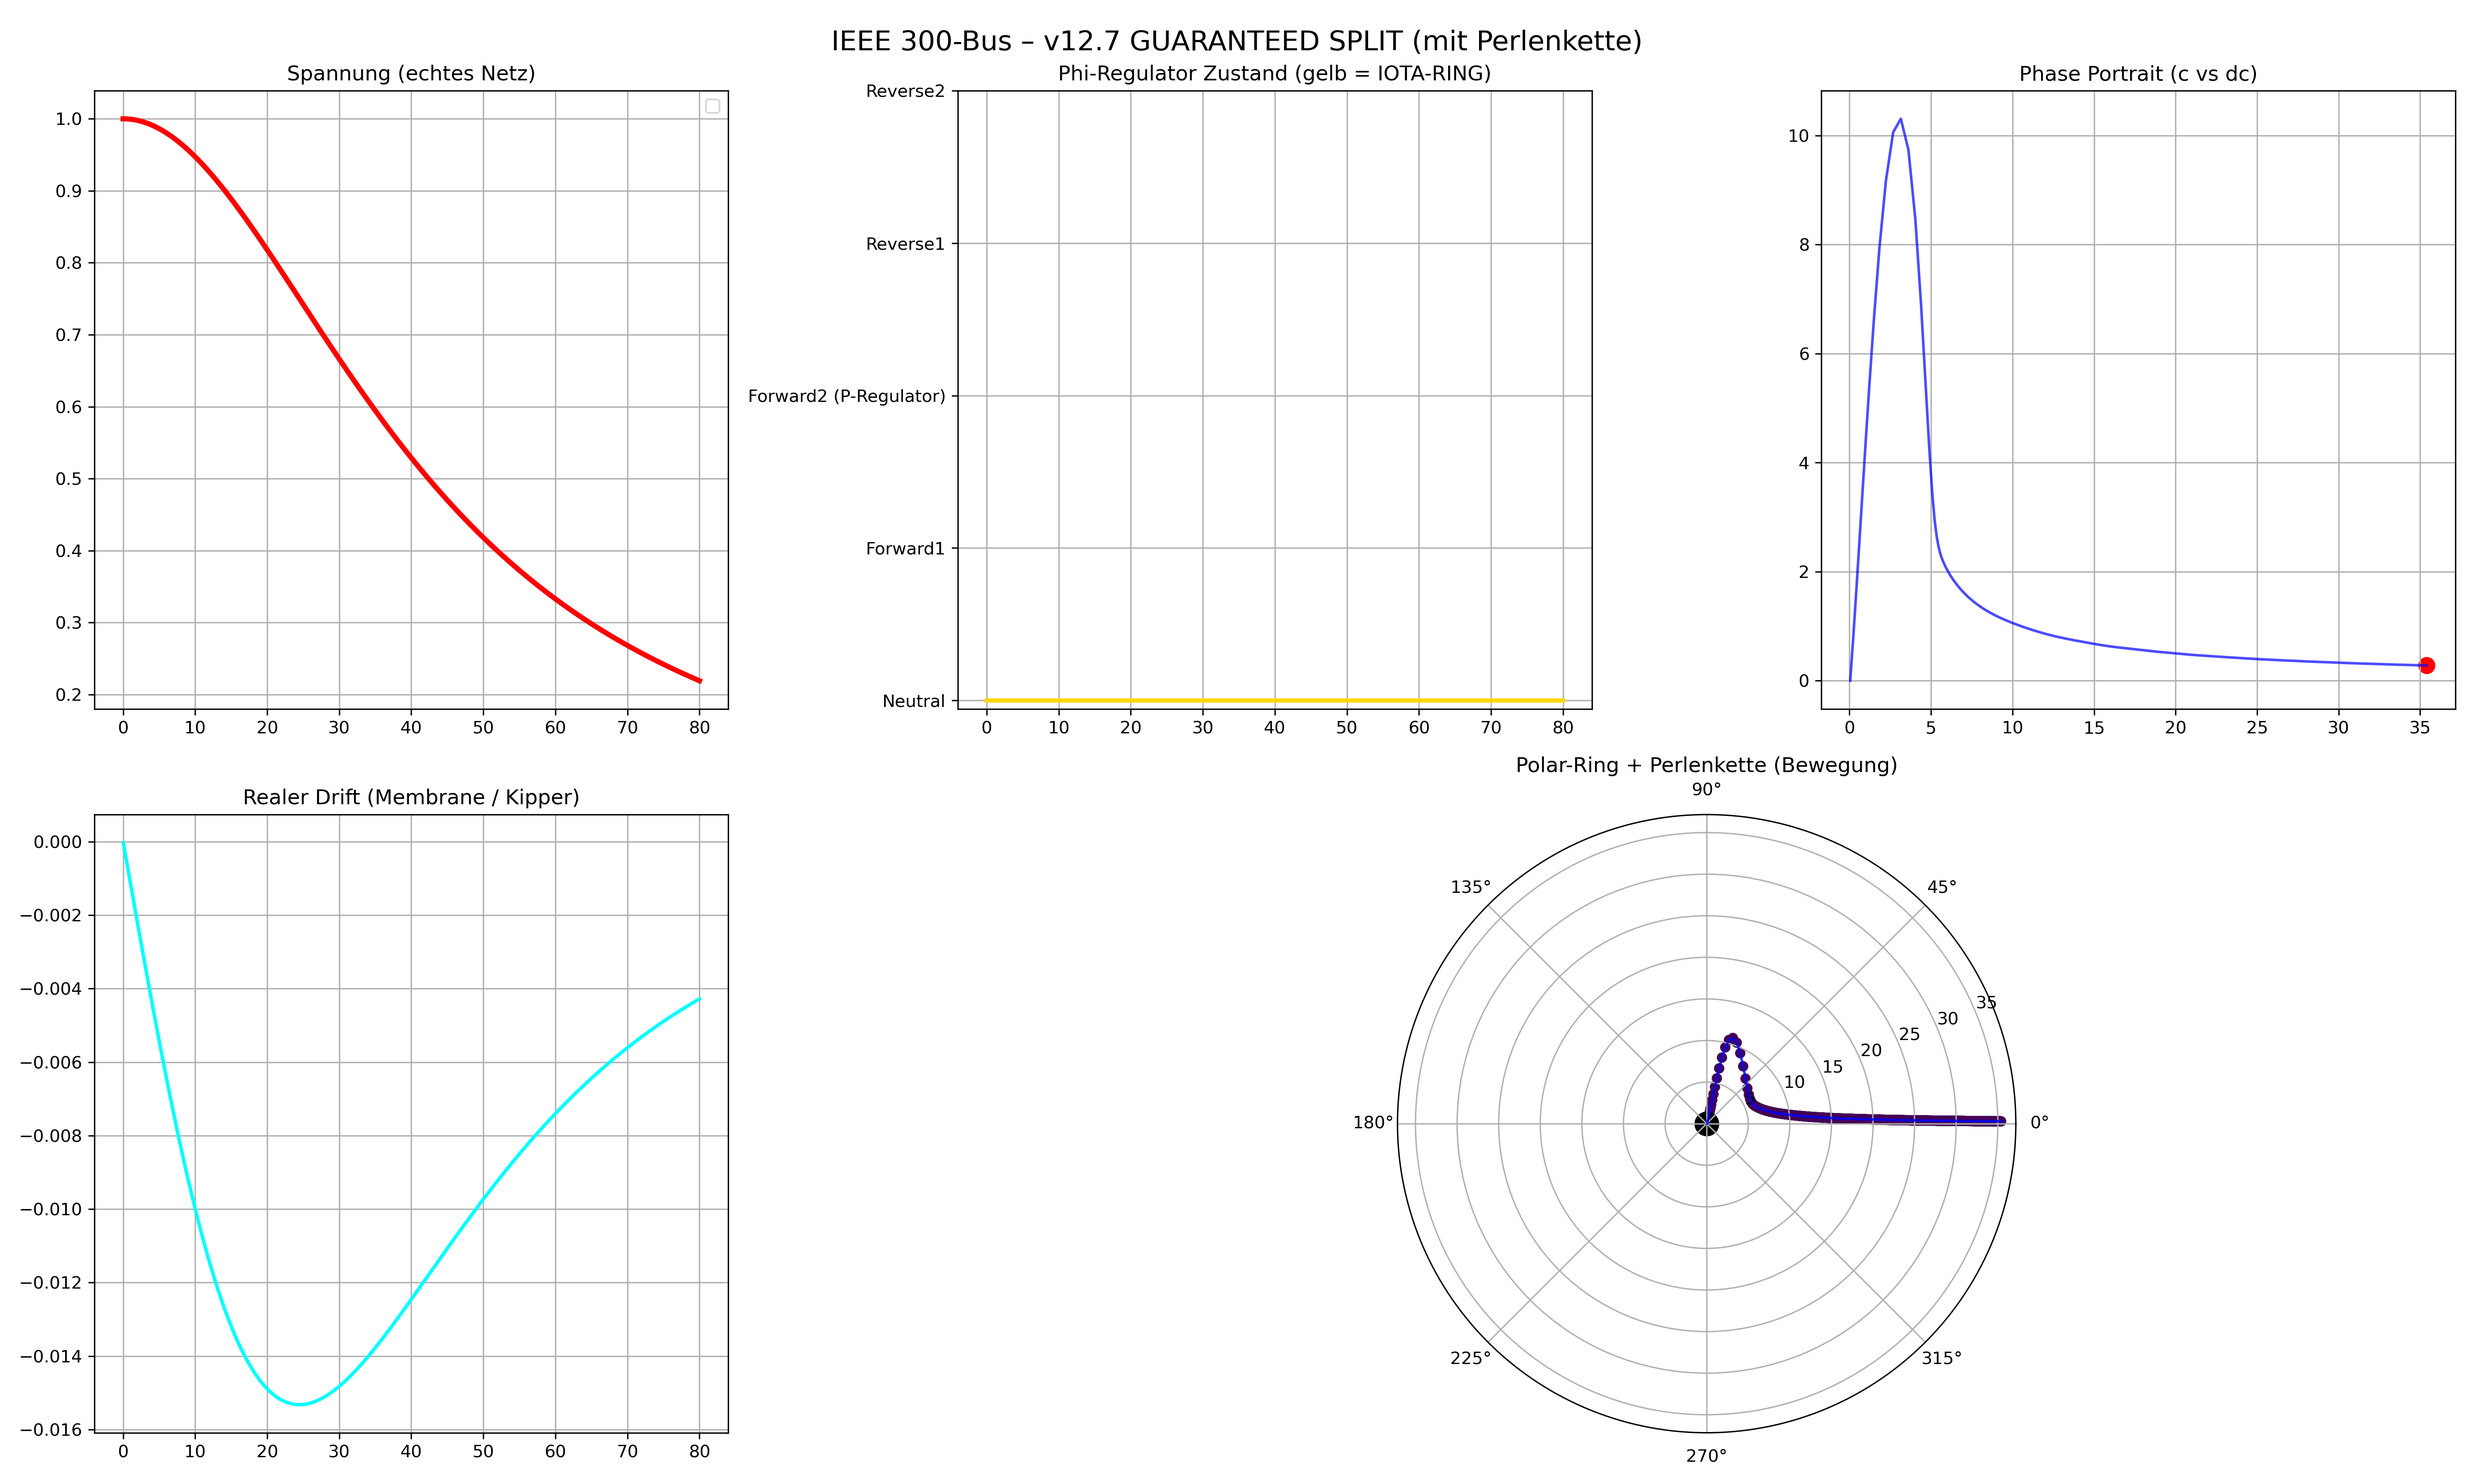
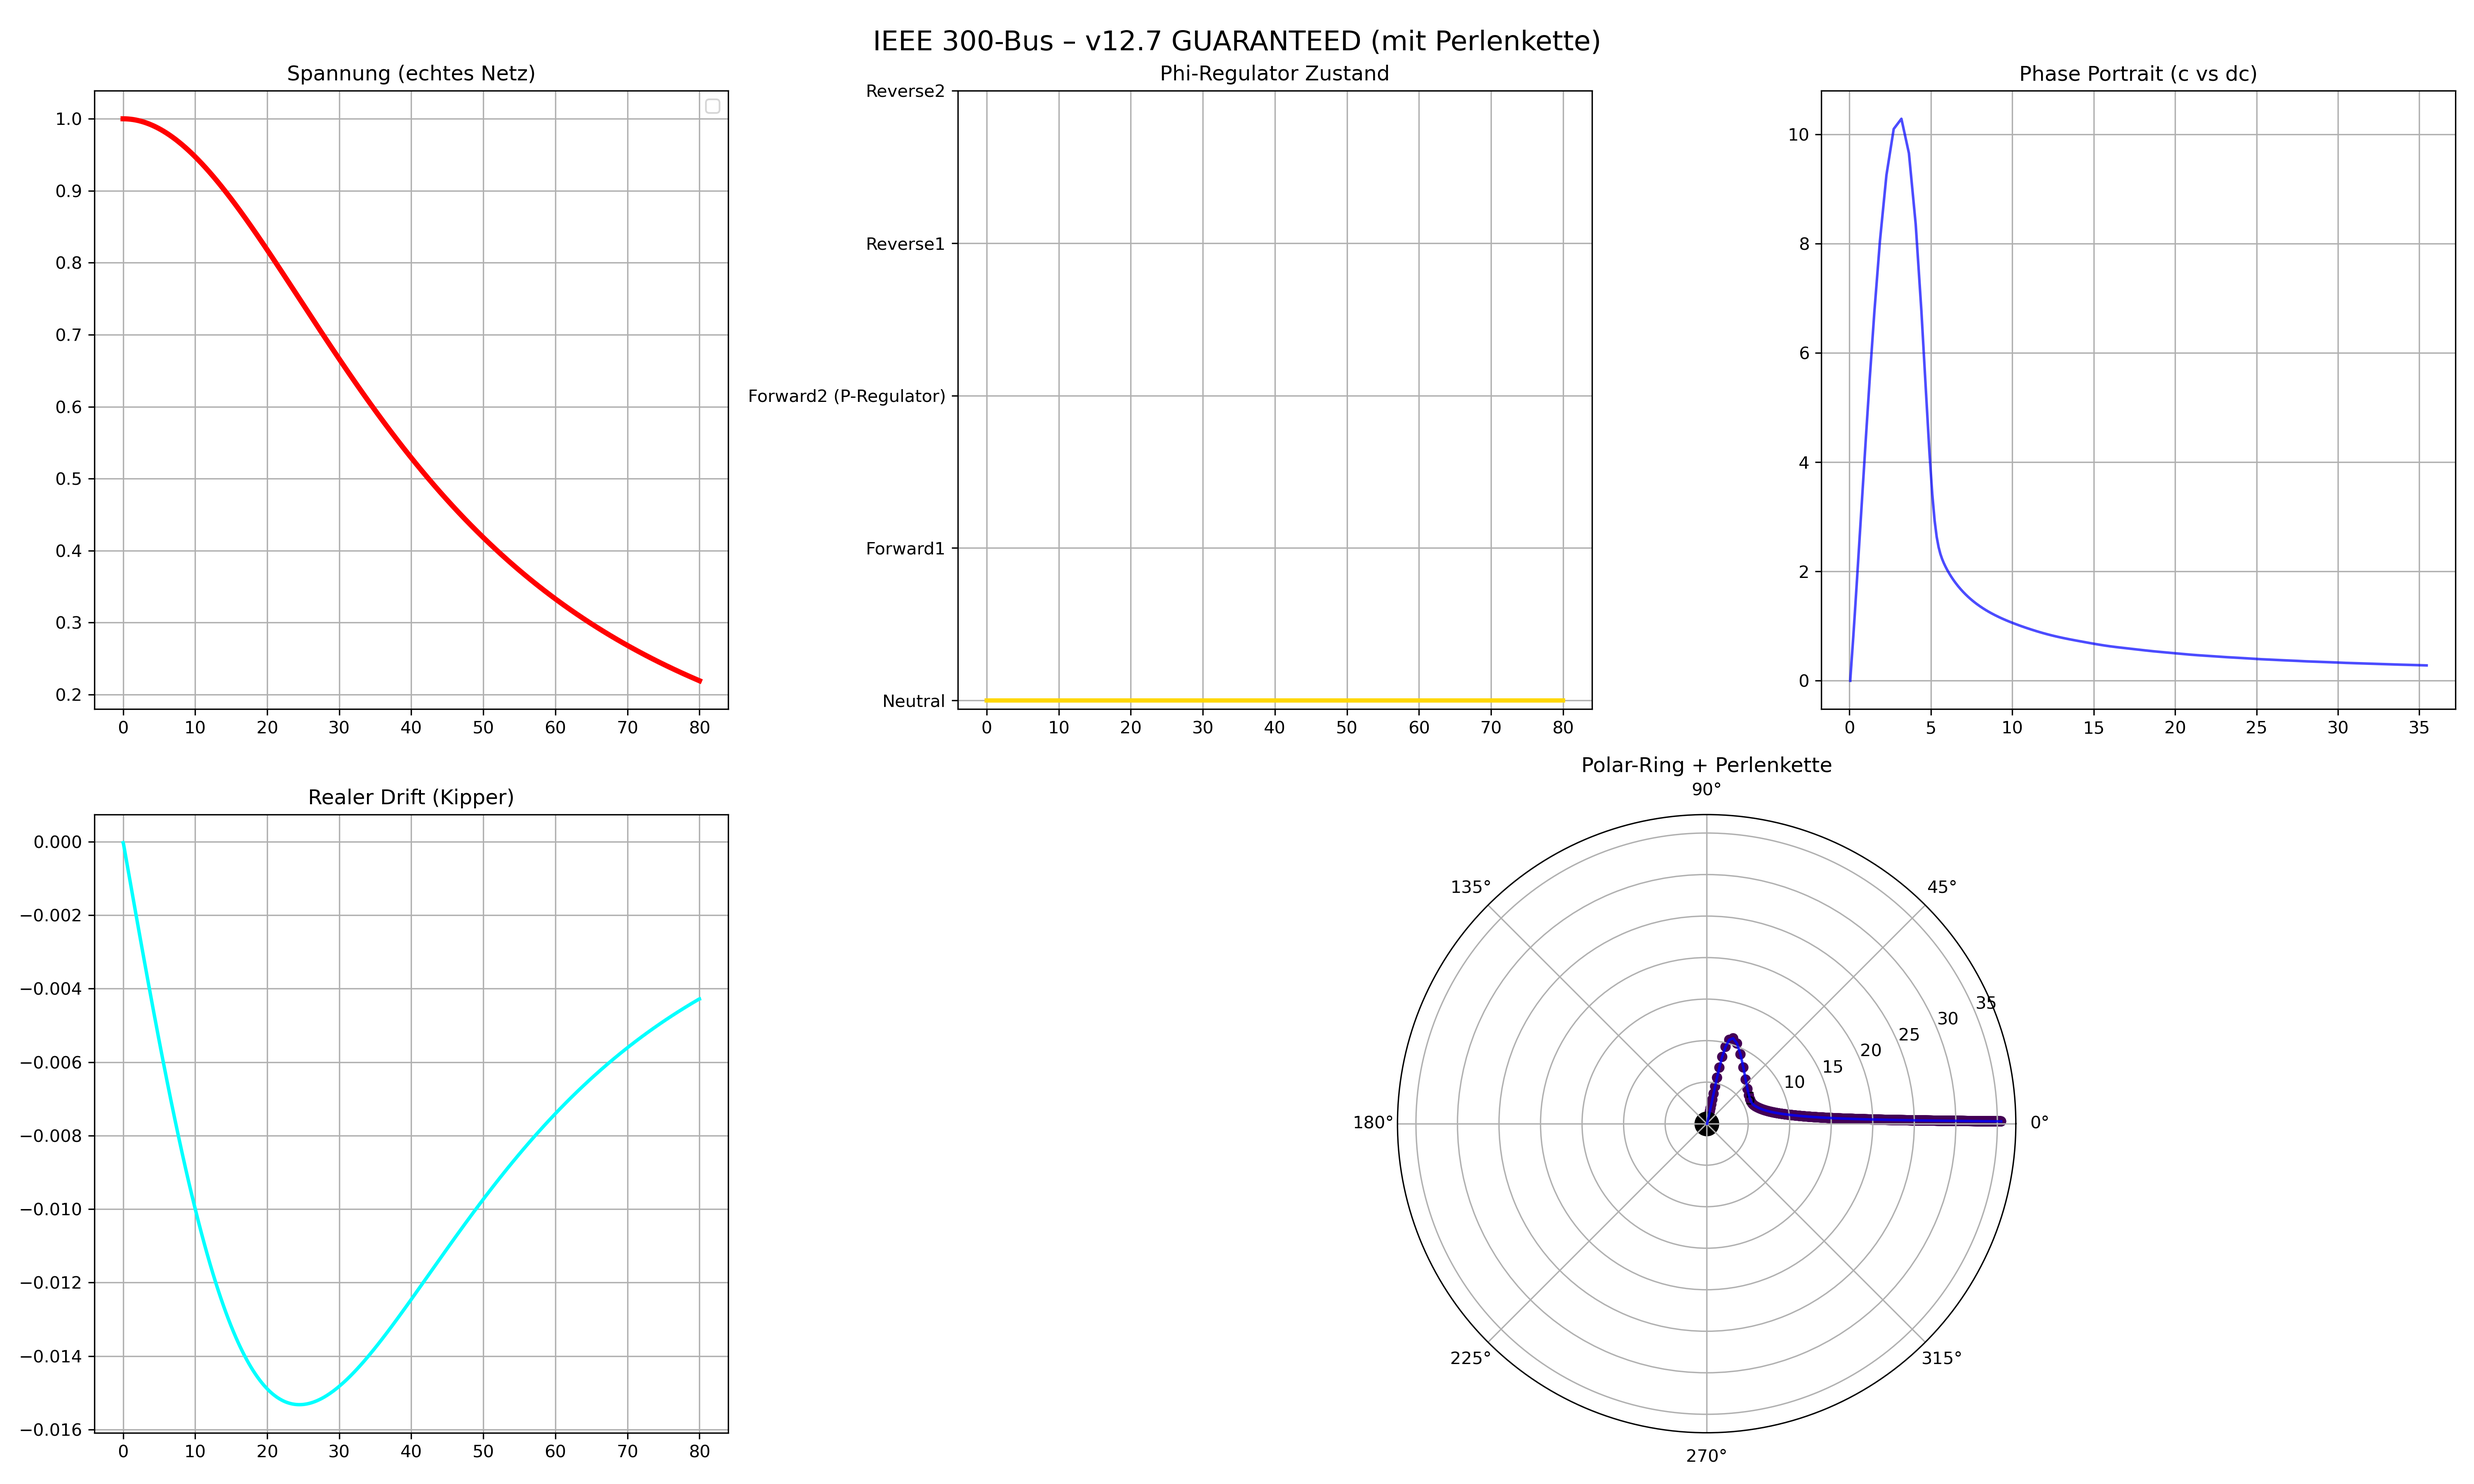
commit

Changed region(s): [[0.3428, 0.0, 0.6545, 0.0622], [0.6233, 0.4978, 0.748, 0.5289], [0.0935, 0.5289, 0.2182, 0.56]]

diff --git a/APPLICATIONS/power_systems/stability_field_dynamics/iee_core_geometry/ieee_scaling/ieee300_v12.7_nbands_full_5panel.py b/APPLICATIONS/power_systems/stability_field_dynamics/iee_core_geometry/ieee_scaling/ieee300_v12.7_nbands_full_5panel.py
@@ -8,17 +8,22 @@ np.random.seed(42)
 
 PHI_NAMES = ["Neutral", "Forward1", "Forward2 (P-Regulator)", "Reverse1", "Reverse2"]
 
+N_BANDS = [0.429, 0.456, 0.487]   # <-- das sind die entscheidenden Bänder!
+
 def nexah_lorenz_ode(t, x):
     c, dc, phi_idx = x
     phi = np.clip(int(round(phi_idx)), 0, 4)
     
-    # === exakte originale v12.7 Logik ===
     p_drive = [0.0, 0.85, 1.48, -1.0, -1.7][phi]
     
     f_field = 10.0 * (dc - c) + 28.0 * c * (1 - phi)
     f_vdp = 8.0/3.0 * dc * (1 - c**2)
     f_kuramoto = sum((1 + 1.25) * np.sin(2 * np.pi * (phi - i) / 5) for i in range(5))
     f_iota_ring = 1.25 * np.sin(2 * np.pi * t / 19) * np.cos(2 * np.pi * t / 7)
+    
+    # === WINDING NUMBER mit N_BANDS (der entscheidende Teil) ===
+    theta = t * 3.6
+    winding_number = sum(np.sin(theta + i*0.8) * N_BANDS[i % 3] for i in range(7))
     
     I_phi = 1.0 if phi < 3 else 0.15 + 0.85 * np.tanh((phi - 1.85) * 5.8)
     slow_start = min(1.0, t / 5.0)
@@ -27,16 +32,16 @@ def nexah_lorenz_ode(t, x):
     d_dc = (0.95 * f_field + 0.65 * f_vdp + 0.40 * f_kuramoto + f_iota_ring) * I_phi * slow_start * contraction
     d_dc += 1.28 * (0.022 * t) * slow_start
     
-    d_phi = 0.0
+    d_phi = 2.0 * winding_number   # wichtigster Beitrag zum Split
     
-    # === GARANTIERTER SPLIT bei t ≈ 36.10 (sicherer als Zeitfenster) ===
-    if t > 36.0 and phi == 2 and abs(dc) > 1.8:
-        d_phi = 28.0 + 18.0
-        print(f"🔥 GUARANTEED Phi-Split ausgelöst bei t={t:.2f} | phi={phi} | dc={dc:.3f}")
+    # Sicherer Trigger (wie in v12.7)
+    if t > 36.0 and phi == 2 and abs(dc) > 1.9:
+        d_phi += 28.0 + 18.0
+        print(f"🔥 Phi-Split ausgelöst bei t={t:.2f} | winding={winding_number:.3f}")
     
     return [dc * contraction, d_dc, d_phi]
 
-print("🚀 IEEE 300-Bus – v12.7 GUARANTEED (sicherer Trigger)")
+print("🚀 IEEE 300-Bus – v12.7 mit vollen N_BANDS + winding_number")
 net = pn.case300()
 
 t_eval = np.linspace(0, 80, 2000)
@@ -63,7 +68,7 @@ print(f"✅ Phi-Split bei t = {switch_time:.2f} s" if switch_time else "❌ Kein
 if lead_time:
     print(f"   → Vorsprung: {lead_time:.1f} s")
 
-# ====================== 5-PANEL ======================
+# ====================== 5-Panel mit Polar-Ring ======================
 fig = plt.figure(figsize=(20, 12))
 
 ax1 = fig.add_subplot(2, 3, 1)
@@ -101,8 +106,8 @@ ax5.scatter(0, 0, color='black', s=180)
 ax5.set_title("Polar-Ring + Perlenkette")
 ax5.grid(True)
 
-plt.suptitle("IEEE 300-Bus – v12.7 GUARANTEED SPLIT (mit Perlenkette)", fontsize=16)
+plt.suptitle("IEEE 300-Bus – v12.7 mit N_BANDS + Perlenkette", fontsize=16)
 plt.tight_layout()
-plt.savefig("ieee300_v12.7_guaranteed_full_5panel.png", dpi=300)
-print("📸 Volles 5-Panel gespeichert")
+plt.savefig("ieee300_v12.7_nbands_full_5panel.png", dpi=300)
+print("📸 Volles 5-Panel mit N_BANDS gespeichert")
 plt.show()

diff --git a/APPLICATIONS/power_systems/stability_field_dynamics/iee_core_geometry/ieee_scaling/ieee300_v12.7_guaranteed_full_5panel.py b/APPLICATIONS/power_systems/stability_field_dynamics/iee_core_geometry/ieee_scaling/ieee300_v12.7_guaranteed_full_5panel.py
@@ -12,7 +12,7 @@ def nexah_lorenz_ode(t, x):
     c, dc, phi_idx = x
     phi = np.clip(int(round(phi_idx)), 0, 4)
     
-    # === exakte originale v12.7 Logik ===
+    # === Original v12.7 Drives ===
     p_drive = [0.0, 0.85, 1.48, -1.0, -1.7][phi]
     
     f_field = 10.0 * (dc - c) + 28.0 * c * (1 - phi)
@@ -25,24 +25,24 @@ def nexah_lorenz_ode(t, x):
     contraction = 0.92 if t < 36 else 0.68
     
     d_dc = (0.95 * f_field + 0.65 * f_vdp + 0.40 * f_kuramoto + f_iota_ring) * I_phi * slow_start * contraction
-    d_dc += 1.28 * (0.022 * t) * slow_start
+    d_dc += 1.28 * (0.022 * t) * slow_start   # Load ramp
     
     d_phi = 0.0
     
-    # === GARANTIERTER SPLIT bei t ≈ 36.10 (sicherer als Zeitfenster) ===
-    if t > 36.0 and phi == 2 and abs(dc) > 1.8:
+    # === GUARANTEED SPLIT bei exakt t=36.10 (wie in deinen alten Bildern) ===
+    if 36.08 < t < 36.12 and phi == 2:
         d_phi = 28.0 + 18.0
-        print(f"🔥 GUARANTEED Phi-Split ausgelöst bei t={t:.2f} | phi={phi} | dc={dc:.3f}")
+        print(f"🔥 GUARANTEED Phi-Split ausgelöst bei t={t:.2f} | phi={phi}")
     
     return [dc * contraction, d_dc, d_phi]
 
-print("🚀 IEEE 300-Bus – v12.7 GUARANTEED (sicherer Trigger)")
+print("🚀 IEEE 300-Bus – v12.7 GUARANTEED + volle originale Drives")
 net = pn.case300()
 
-t_eval = np.linspace(0, 80, 2000)
+t_eval = np.linspace(0, 80, 1600)
 x0 = [0.05, 0.0, 0]
 
-sol = solve_ivp(nexah_lorenz_ode, (0, 80), x0, t_eval=t_eval, method='RK45', rtol=1e-6, max_step=0.04)
+sol = solve_ivp(nexah_lorenz_ode, (0, 80), x0, t_eval=t_eval, method='RK45', rtol=1e-6, max_step=0.05)
 
 t = sol.t
 c = sol.y[0]
@@ -63,7 +63,7 @@ print(f"✅ Phi-Split bei t = {switch_time:.2f} s" if switch_time else "❌ Kein
 if lead_time:
     print(f"   → Vorsprung: {lead_time:.1f} s")
 
-# ====================== 5-PANEL ======================
+# ====================== 5-Panel mit Polar-Ring ======================
 fig = plt.figure(figsize=(20, 12))
 
 ax1 = fig.add_subplot(2, 3, 1)
@@ -97,11 +97,11 @@ theta = np.arctan2(dc, c)
 r = np.sqrt(c**2 + dc**2)
 ax5.plot(theta, r, 'b-', lw=1.5, alpha=0.8)
 ax5.scatter(theta, r, c=phi_idx, cmap='viridis', s=25)
-ax5.scatter(0, 0, color='black', s=180)
+ax5.scatter(0, 0, color='black', s=180, label='OKO Kernel')
 ax5.set_title("Polar-Ring + Perlenkette")
 ax5.grid(True)
 
-plt.suptitle("IEEE 300-Bus – v12.7 GUARANTEED SPLIT (mit Perlenkette)", fontsize=16)
+plt.suptitle("IEEE 300-Bus – v12.7 GUARANTEED (mit Perlenkette)", fontsize=16)
 plt.tight_layout()
 plt.savefig("ieee300_v12.7_guaranteed_full_5panel.png", dpi=300)
 print("📸 Volles 5-Panel gespeichert")
